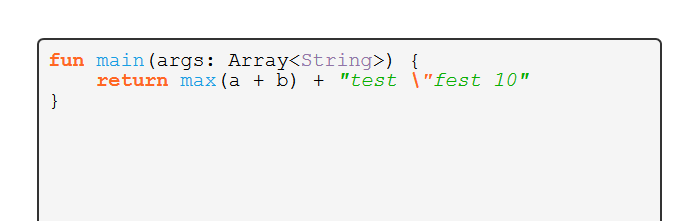
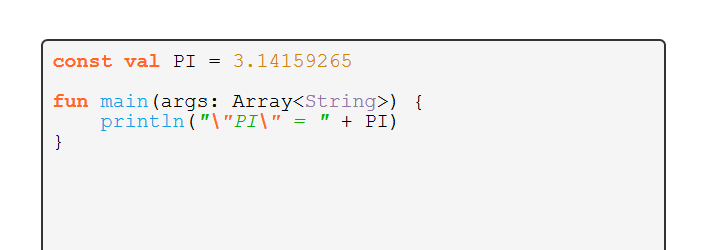
Minor fixes

Changed region(s): [[0.03, 0.1357, 0.96, 1.0]]

diff --git a/relations.js b/relations.js
@@ -61,14 +61,16 @@ export class Scope {
 	}
 
 	/**
-	 * Wraps a portion of text with it's
-	 * styleClass
+	 * Wraps a portion of text with a
+	 * styleClass. Inserts that portion into
+	 * the text and returns it as a result with
+	 * the position pointing after the insertion
 	 */
-	finalize(text, start, end) {
+	wrap(text, styleClass, start, end) {
 		const read = text.substring(start, end)
-		const wrapped = format.wrap(read, this.styleClass)
+		const wrapped = format.wrap(read, styleClass)
 		const result = format.insert(text, wrapped, start, end - start)
-		return [result, end - read.length + wrapped.length]
+		return [result, start + wrapped.length]
 	}
 
 	/**
@@ -99,17 +101,15 @@ export class Scope {
 				const match = this.lookAhead(each, text, it)
 
 				if (match != null) {
-					let styled = match
-
-					if (item.styleClass)
-						styled = format.wrap(match, item.styleClass)
-
-					text = format.insert(text, styled, it, match.length)
-					it += styled.length
 					found = true
 
+					if (item.styleClass)
+						[text, it] = this.wrap(text, item.styleClass, it, it + match.length)
+					else
+						it += match.length
+
 					if (item.pop)
-						return this.finalize(text, index, it)
+						return this.wrap(text, this.styleClass, index, it)
 
 					if (item.push)
 						[text, it] = item.push.proceed(text, it)
@@ -122,13 +122,11 @@ export class Scope {
 				it++
 		}
 
-		return this.finalize(text, index, it)
+		return this.wrap(text, this.styleClass, index, it)
 	}
 }
 
 /**
- * TODO: finish it
- *
  * Handler that does highlighting
  * by contextual rules
  */

diff --git a/main.js b/main.js
@@ -6,9 +6,9 @@ relations.assignAllObservables()
 // initialize regex highlighter of
 // the first code area
 regexOutput.highlighter
-	.defineRule(/"[^"]*"/g, 'quoted')
-	.defineRule(/'[^']'/g,	'quoted')
-	.defineRule(/\b(var|val|if|else|while|for|when|fun|return|operator)\b/g, 'keyword')
+	.defineRule(/"(?:\\.|[^"])*"/g, 'quoted')
+	.defineRule(/'(?:\\.|[^'])'/g,	'quoted')
+	.defineRule(/\b(var|val|const|if|else|while|for|when|fun|return|operator)\b/g, 'keyword')
 	.defineRule(/[-+]?[0-9]*\.?[0-9]+(?:(?:e|E)[-+]?[0-9]+)?/g, 			 'number')
 	.defineRule(/\b[a-zA-Z_][a-zA-Z0-9_]*(?=\()/g, 'function-call')
 	.defineRule(/\b(Double|Float|Long|Int|Short|Byte|Boolean|Char|String)\b/g, 'primitive')
@@ -45,7 +45,7 @@ const globalScope = new relations.Scope('', {
 		'push': doubleQuoteScope
 	},
 
-	'\\b(var|val|if|else|while|for|when|fun|return|operator)\\b': {
+	'\\b(var|val|const|if|else|while|for|when|fun|return|operator)\\b': {
 		'styleClass': 'keyword'
 	},
 

diff --git a/index.html b/index.html
@@ -13,7 +13,7 @@
 	</head>
 
 	<body>
-		<!-- Just a textarea on top of a div -->
+		<!-- Just a textarea on top of a div + regex highlighting -->
 		<div class="accurate viewport window">
 			<div class="expandable">
 				<textarea
@@ -30,7 +30,7 @@
 			</div>
 		</div>
 
-		<!-- Same as previous + regex-based highlighting -->
+		<!-- Just a textarea on top of a div + contextual highlighting -->
 		<div class="accurate viewport window">
 			<div class="expandable">
 				<textarea
